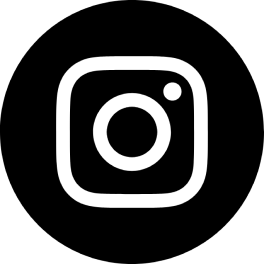
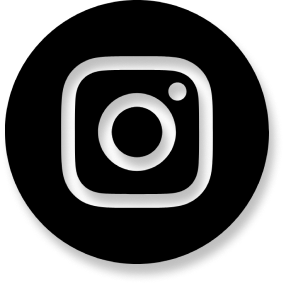
adding in modal/case study 2

diff --git a/index.html b/index.html
@@ -5,6 +5,20 @@
         <link rel="stylesheet" href="https://use.typekit.net/cow4mqc.css">
     </head>
     <body>
+
+
+        <div id="foodBlogModalContainer">
+            <div onclick="closeModal()" class="background"></div>
+            <div id ="imageModal" class="modal">
+                <div onclick="closeModal()" id="exitButton"><img src="images/exit.svg"/></div>
+            <div id ="foodModal">
+                <img id="foodBlogModalImage" src="">
+                </div>
+            </div>
+        </div>
+
+
+
         <div id="box">
             <div id="header" class="section">
                 <div class="left">
@@ -59,7 +73,7 @@
                 </div>    
 
                 <div class="caseStudiesContent">
-                    <a href ="caseStudies/YumYum.html"><img src="images/case2.png"/></a>
+                    <a href ="caseStudies/YumYum.html"><img src="images/case4.png"/></a>
                     <div class="caseText">
                         <!-- <div class="caseBigText">0.2 Montana State Parks</div><br> -->
                         <div class="caseSmallText">
@@ -105,24 +119,25 @@
 
         <div id="line3">
             <img src="images/line.png"/>
+            
         </div>
 
         <div id ="foodBlog" class="section">
             <div id="foodBlogName" class="sectionName">Food Blog</div>
             <div class="allFoodImages">
-                <div class="foodPictures">
-                    <a class="foodBig" href="images/1.1.png"><img class="foodSmall" src="images/1.png"/></a>
-                    <a class="foodBig" href="images/1.2.png"><img class="foodSmall" src="images/2.png"/></a>
-                    <a class="foodBig" href="images/1.3.png"><img class="foodSmall" src="images/3.png"/></a>
-                    <a class="foodBig" href="images/1.4.png"><img class="foodSmall" src="images/4.png"/></a>
-                    <a class="foodBig" href="images/1.5.png"><img class="foodSmall" src="images/5.png"/></a>
-                    <a class="foodBig" href="images/1.6.png"><img class="foodSmall" src="images/6.png"/></a>
-                    <a class="foodBig" href="images/1.7.png"><img class="foodSmall" src="images/7.png"/></a>
-                    <a class="foodBig" href="images/1.8.png"><img class="foodSmall" src="images/8.png"/></a>
-                    <a class="foodBig" href="images/1.9.png"><img class="foodSmall" src="images/9.png"/></a>
-                    <a class="foodBig" href="images/1.10.png"><img class="foodSmall" src="images/10.png"/></a>
-                    <a class="foodBig" href="images/1.11.png"><img class="foodSmall" src="images/11.png"/></a>
-                    <a class="foodBig" href="images/1.12.png"><img class="foodSmall" src="images/12.png"/></a>
+                <div class="foodPictures"> <!--"images/1.1.png -->
+                    <div data="images/1.1.png" onclick="openModal(this)" class="foodBig"><img class="foodSmall" src="images/1.png"/></div>
+                    <div data="images/1.2.png" onclick="openModal(this)" class="foodBig"><img class="foodSmall" src="images/2.png"/></div>
+                    <div data="images/1.3.png" onclick="openModal(this)" class="foodBig"><img class="foodSmall" src="images/3.png"/></div>
+                    <div data="images/1.4.png" onclick="openModal(this)" class="foodBig"><img class="foodSmall" src="images/4.png"/></div>
+                    <div data="images/1.5.png" onclick="openModal(this)" class="foodBig"><img class="foodSmall" src="images/5.png"/></div>
+                    <div data="images/1.6.png" onclick="openModal(this)" class="foodBig"><img class="foodSmall" src="images/6.png"/></div>
+                    <div data="images/1.7.png" onclick="openModal(this)" class="foodBig"><img class="foodSmall" src="images/7.png"/></div>
+                    <div data="images/1.8.png" onclick="openModal(this)" class="foodBig"><img class="foodSmall" src="images/8.png"/></div>
+                    <div data="images/1.9.png" onclick="openModal(this)" class="foodBig"><img class="foodSmall" src="images/9.png"/></div>
+                    <div data="images/1.10.png" onclick="openModal(this)" class="foodBig"><img class="foodSmall" src="images/10.png"/></div>
+                    <div data="images/1.11.png" onclick="openModal(this)" class="foodBig"><img class="foodSmall" src="images/11.png"/></div>
+                    <div data="images/1.12.png" onclick="openModal(this)" class="foodBig"><img class="foodSmall" src="images/12.png"/></div>
                 </div>
             </div>
         </div>
@@ -141,5 +156,22 @@
         <button type="button">download resume</button>
     </div>
 
+<script> 
+    const modalContainer = document.getElementById('foodBlogModalContainer')
+    const modalImage = document.getElementById("foodBlogModalImage");
+
+    const openModal = (element) => {
+        // modalImage.display ="block";
+        modalContainer.style.display = "block";
+        modalImage.src=element.getAttribute("data")
+    }
+    const closeModal = () => {
+        
+        modalContainer.style.display = "none";
+        
+
+    }
+
+</script>
     </body>
 </html> 

diff --git a/caseStudies/YumYum.html b/caseStudies/YumYum.html
@@ -2,6 +2,7 @@
     <head>
         <title>John Nguyen</title>
         <link rel="stylesheet" type="text/css" href="../css/style.css"/>
+        <link rel="stylesheet" type="text/css" href="../css/caseStudies.css"/>
         <link rel="stylesheet" href="https://use.typekit.net/cow4mqc.css">
     </head>
     <body>
@@ -23,6 +24,37 @@
                     </ul>
                 </div>
             </div>
-        </div>
+        <div id="headingImage">
+            <img src="../images/yum1.png"/></div>
+        
+    <div id="preface">
+        <h3>2.2 Mobile App Design: Yum Yum</h3>
+
+        Building a brand-new mobile application that solves a real, clearly identified need in users’ everyday lives.<br><br>
+        
+        PROBLEM: How can we make the cooking experience more enjoyable and social for anyone, espically during a pandemic? As well as create  long-lasting cooking habits that the user will want to continue?<br><br>
+        
+        TIMELINE: 3 weeks<br><br>
+        
+        ROLE: UX Researcher, UI Designer, Project Manager<br><br>
+        
+        TOOLS: Miro, FIgma, Trello, Google Suite, Slack, Adobe Illustrator <br><br>
+
+        <h3>PREFACE</h3>
+        With the pandemic, many people are taking up new hobbies, cooking/baking being a popular one. However, many individuals find recipes frustrating, from having to hunt down certain ingredients or following 
+        ambiguous instructions. People want to show off their food creations and improve their prowess in the kitchen, so how can we design a customizable app that will inspire users to explore more recipes, 
+        while also making cooking more social? Yum Yum was designed to help users find recipes and share food related content. <br><br>
+
+        <h3>1. Empathize</h3><br>
+
+        The first step in our design thinking is to put ourselves in other people's shoes and connect with how they might be feeling about their cooking experience during COVID-19. 
+        In order to do this, we have conducted five one-on-one interviews; in addition, we surveyed 122 people to gather Quantitative & Qualitative data. <br><br>
+        <i>Google Survey: https://docs.google.com/spreadsheets/d/1GK1BG-Qfw6djVeAvUyD80d9GWWsnIf0xhFuJAMz6clI/edit?usp=sharing</i><br><br><br><br>
+        <div id="survey"><img src="../images/yum2.png"></div><br><br>
+        <i>One-on-one interviews:</i><br><br><br>
+        <div id="survey2"><img src="../images/yum3.2.png"></div><br><br>
+    </div>
+    </div>
+        
     </body>
 </html>

diff --git a/css/style.css b/css/style.css
@@ -1,6 +1,5 @@
 #box {
     padding: 0px 10%;
-    
     display: flex;
     flex-direction: column;
     align-items: center;
@@ -9,6 +8,68 @@
     width: 300px;
     height: 300px;
 }
+
+.background{
+    background-color: rgb(0,0,0,0.5);
+    height: 100%;
+    width: 100%;
+    /* position: fixed;
+    z-index: 2; */
+    backdrop-filter: blur(5px);
+}
+
+#foodBlogModalContainer {
+    position: fixed;
+    z-index: 2;
+    height:100%;
+    width:100%;
+    display: none;
+    /* position: relative; */
+}
+#exitButton {
+
+    position: absolute;
+    z-index: 3 !important;
+    height: 36px;
+    width: 36px; 
+    right: -20%;
+    top:-7%;
+    /* margin: 4.5%  */
+    /* top: 50%;
+    left: 50%; */
+    /* transform: translate(-50%, -50%); */
+}
+#foodModal{
+    /* height: 85%; */
+    display: block;
+    /* margin: 4.5% auto; */
+    width: 95%;
+}
+#foodBlogModalImage {
+    box-shadow: 1px 1px 6px rgb(0,0,0,0.5);
+    height: 100%;
+}
+
+/* .background {
+    position: fixed;
+} */
+
+.modal {
+    /* background-color: white; */
+    /* width: 50%; */
+    height: 80%;
+    z-index: 2;
+    position: fixed;
+    top: 50%;
+    left: 50%;
+    transform: translate(-50%, -50%);
+    border-radius: 10px;
+    display: flex;
+    justify-content: center;
+   
+
+}
+
 a {
     text-decoration: none;
 }
@@ -87,7 +148,7 @@ a:visited {
 .bioIcons img{
     width: 20px;
     height: 20px;
-
+    filter: drop-shadow(0 0 30px #333);
 }
 
 section img {
@@ -197,7 +258,7 @@ section img {
     margin-bottom:70px;
 }
 #line {
-    margin-top:50px;
+    margin-top:30px;
     margin-bottom:50px;
 }
 #line3 {
@@ -259,7 +320,6 @@ section img {
     
 }
 button {
-    
     background-color: #4C7DFA;
     font-size:14px;
     font-family: poppins, sans-serif;
@@ -269,7 +329,10 @@ button {
     height: 36.88px;
     border-radius: 30px;
     margin-bottom: 70px;
+    border-color:#4C7DFA;
+    box-shadow: 0 0 5px #333;
 }
+
 #email {
     text-align: center;
 }

diff --git a/css/caseStudies.css b/css/caseStudies.css
@@ -1,0 +1,22 @@
+#headingImage img {
+    width: 1000px;
+}
+#preface {
+    font-family: poppins, sans-serif;
+    font-weight: 200;
+    font-style: normal;
+    font-size: 14px;
+    width: 1000px;
+}
+#survey img{
+    width: 770px;
+    display: block;
+  margin-left: auto;
+  margin-right: auto;
+}
+#survey2 img{
+    width: 1000px;
+    display: block;
+  margin-left: auto;
+  margin-right: auto;
+}
